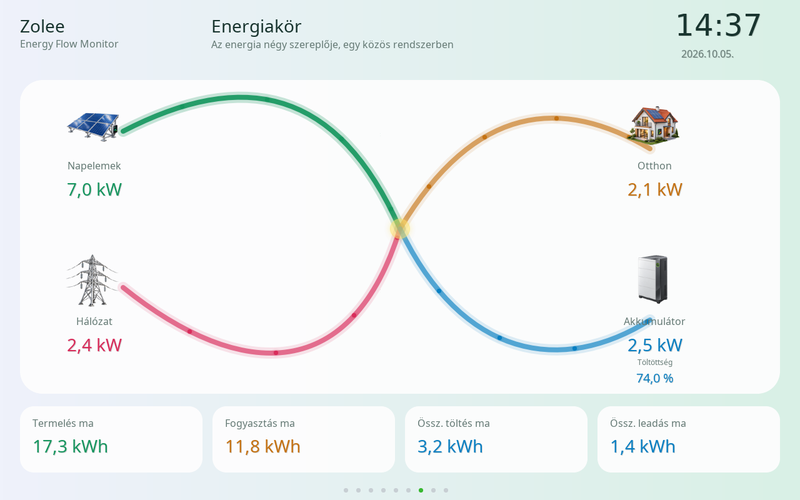
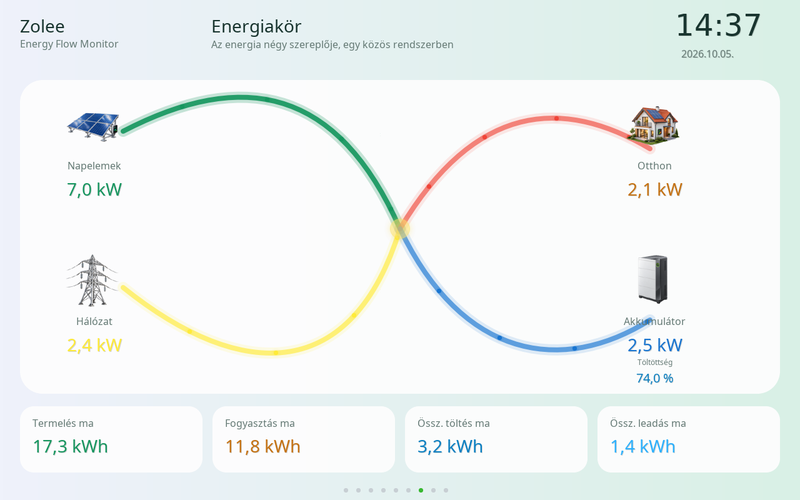
Finish orbit color consistency and update all light and dark previews

diff --git a/tools/prepare_templates.py b/tools/prepare_templates.py
@@ -380,8 +380,8 @@ def main():
                     if source in ('battery','battery_direction'):e.update(positive_color=e['color'],negative_color='#1875D1')
             if ident in ('02-energy-paths','06-energy-orbit'):
                 for e in scene['elements']:
-                    if e['type']=='flow':
-                        if e['source']=='grid':e.update(negative_color='#FFEB38')
+                    if e['type']=='flow' or (ident=='06-energy-orbit' and e['type']=='value' and e.get('source') in ('grid','battery')):
+                        if e['source']=='grid':e.update(positive_color='#EA9C3B' if dark else '#C57212',negative_color='#FFEB38')
                         if e['source']=='battery':e.update(negative_color='#1875D1',positive_color='#2BB1FE')
             if ident in ('04-daily-balance','06-energy-orbit','07-energy-ledger'):
                 for e in scene['elements']:
